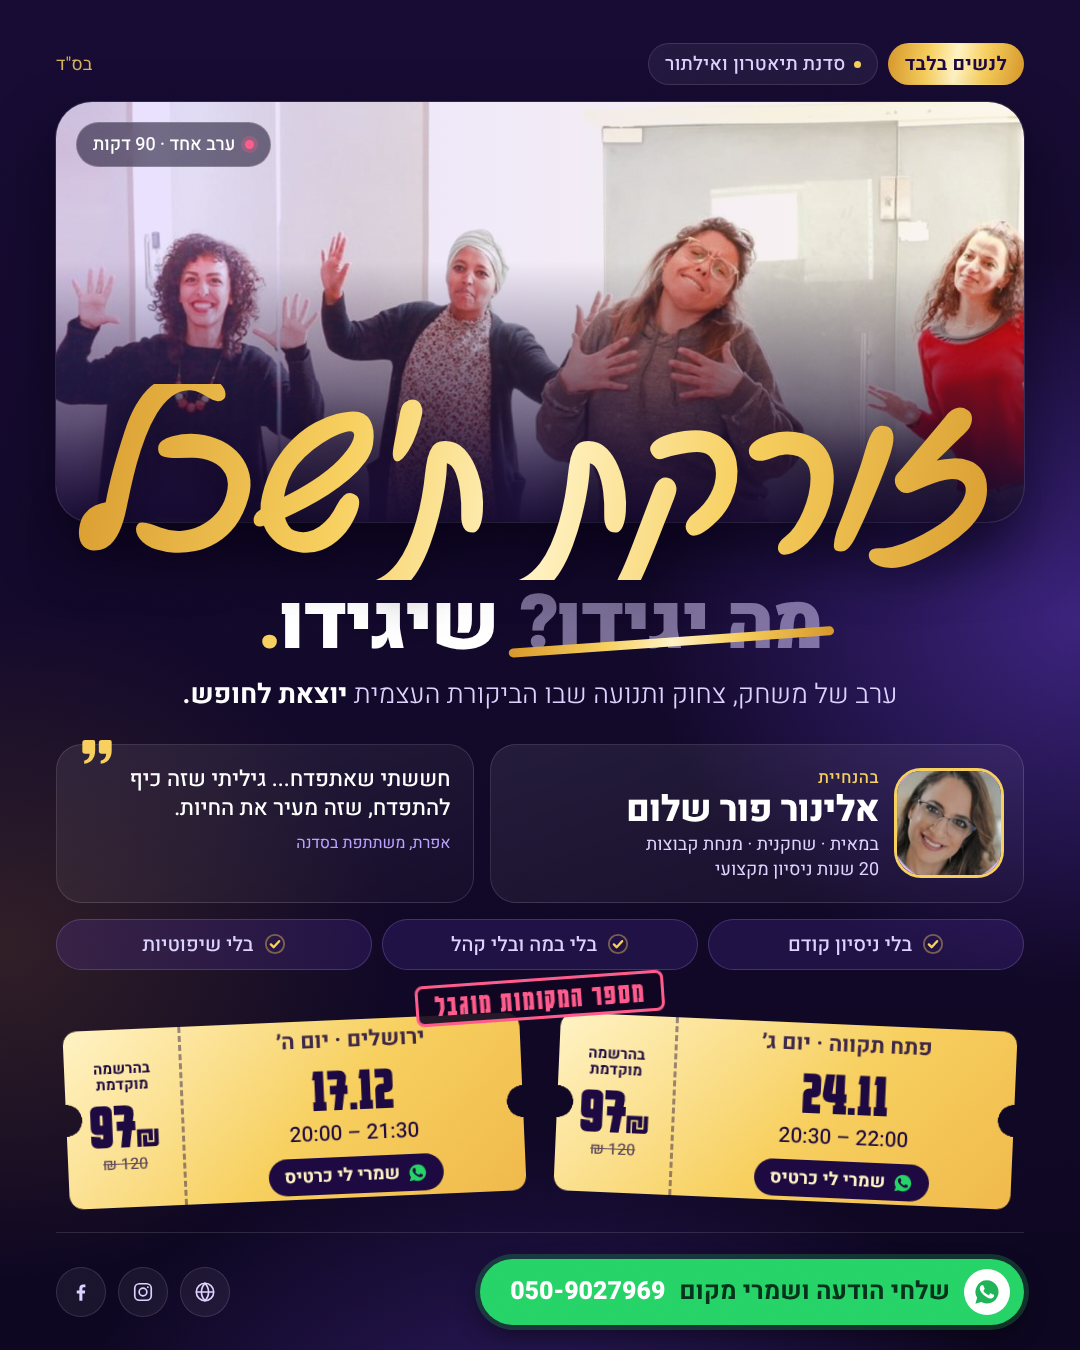
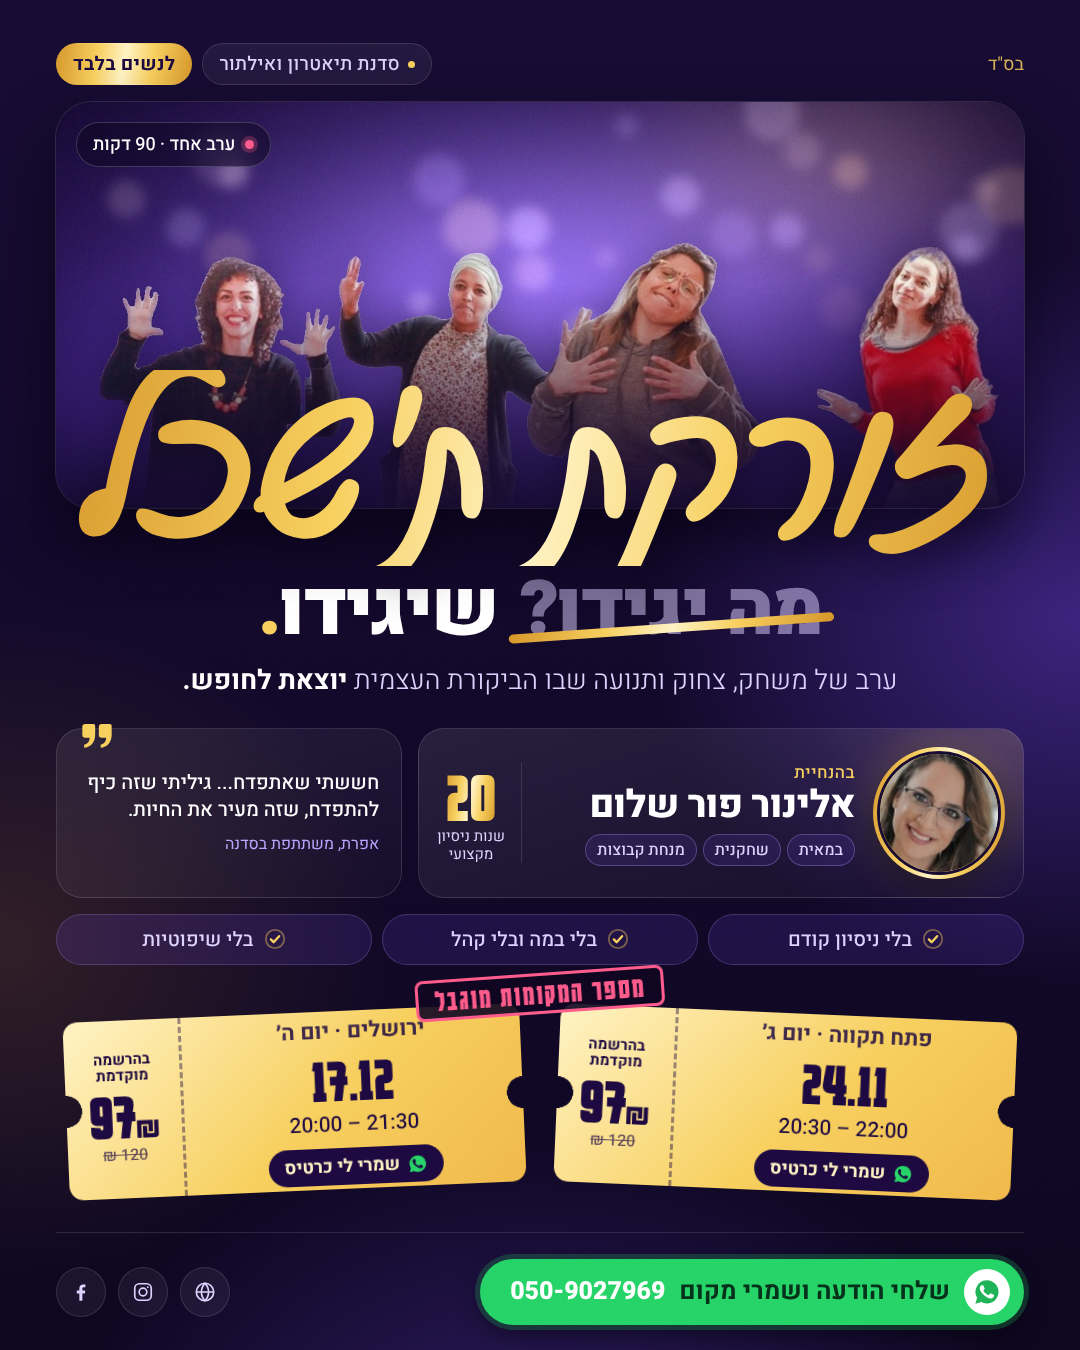
Restage photo on a brand backdrop, return בס"ד to top right, premium host card
Women composited onto a violet studio backdrop with bokeh (foreground
colour recovery, light wrap, colour match, soft shadow, shared grain).
Elinor gets a larger gold-ringed portrait, role chips and a 20-years stat.

Claude-Session: https://claude.ai/code/session_015vqGCRcRcJnpeyZ3SQhrR3

diff --git a/index.html b/index.html
@@ -74,15 +74,14 @@
   /* ---------- PHOTO ---------- */
   .photo {
     position: relative; margin-top: calc(18 * var(--u));
-    height: calc(420 * var(--u)); border-radius: calc(36 * var(--u)); overflow: hidden;
+    height: calc(406 * var(--u)); border-radius: calc(36 * var(--u)); overflow: hidden;
     box-shadow: 0 0 0 1px var(--line), 0 calc(30 * var(--u)) calc(60 * var(--u)) rgba(5, 1, 15, .6);
   }
-  .photo img { width: 100%; height: 100%; object-fit: cover; object-position: 58% 30%; display: block; filter: saturate(1.06) contrast(1.04); }
+  .photo img { width: 100%; height: 100%; object-fit: cover; object-position: 50% 50%; display: block; }
   .photo::after {
     content: ""; position: absolute; inset: 0;
     background:
-      linear-gradient(180deg, rgba(23, 11, 51, 0) 38%, rgba(23, 11, 51, .55) 72%, rgba(23, 11, 51, .96) 100%),
-      linear-gradient(90deg, rgba(124, 77, 255, .18), rgba(214, 149, 42, .08));
+      linear-gradient(180deg, rgba(23, 11, 51, 0) 45%, rgba(23, 11, 51, .5) 75%, rgba(23, 11, 51, .95) 100%);
     mix-blend-mode: normal;
   }
   .live {
@@ -119,18 +118,26 @@
   .sub b { font-weight: 700; color: var(--white); }
 
   /* ---------- BENTO ---------- */
-  .bento { margin-top: calc(30 * var(--u)); display: grid; grid-template-columns: 1.28fr 1fr; gap: calc(16 * var(--u)); }
+  .bento { margin-top: calc(28 * var(--u)); display: grid; grid-template-columns: 1.75fr 1fr; gap: calc(16 * var(--u)); }
   .card {
     position: relative; border-radius: calc(26 * var(--u)); padding: calc(20 * var(--u)) calc(22 * var(--u));
     background: linear-gradient(160deg, rgba(255, 255, 255, .08), rgba(255, 255, 255, .025));
     border: 1px solid var(--line);
   }
-  .host { display: flex; align-items: center; gap: calc(18 * var(--u)); }
-  .host img { width: calc(104 * var(--u)); height: calc(104 * var(--u)); border-radius: calc(24 * var(--u)); object-fit: cover; flex: none; box-shadow: 0 0 0 calc(3 * var(--u)) var(--gold-2); }
-  .host small { display: block; font-size: calc(17 * var(--u)); font-weight: 500; color: var(--gold-2); letter-spacing: calc(.5 * var(--u)); }
-  .host strong { display: block; font-size: calc(36 * var(--u)); font-weight: 800; line-height: 1.1; letter-spacing: calc(-.5 * var(--u)); }
-  .host span { display: block; margin-top: calc(4 * var(--u)); font-size: calc(18 * var(--u)); color: var(--lav); line-height: 1.35; }
-  .quote p { font-size: calc(22 * var(--u)); font-weight: 500; line-height: 1.32; }
+  .host { display: flex; align-items: center; gap: calc(18 * var(--u)); padding: calc(18 * var(--u)); overflow: hidden;
+    background: radial-gradient(calc(300 * var(--u)) calc(200 * var(--u)) at 100% 0%, rgba(247, 207, 93, .16), transparent 70%), linear-gradient(160deg, rgba(255, 255, 255, .09), rgba(255, 255, 255, .025)); }
+  .portrait { flex: none; width: calc(132 * var(--u)); height: calc(132 * var(--u)); border-radius: 50%; padding: calc(4 * var(--u)); background: var(--gold); box-shadow: 0 calc(12 * var(--u)) calc(30 * var(--u)) rgba(5, 1, 15, .55), 0 0 calc(40 * var(--u)) rgba(247, 207, 93, .25); }
+  .portrait img { width: 100%; height: 100%; border-radius: 50%; object-fit: cover; display: block; border: calc(3 * var(--u)) solid var(--bg-1); }
+  .who { flex: 1; min-width: 0; }
+  .who small { display: block; font-size: calc(17 * var(--u)); font-weight: 500; color: var(--gold-2); letter-spacing: calc(.5 * var(--u)); }
+  .who strong { display: block; font-size: calc(38 * var(--u)); font-weight: 800; line-height: 1.08; letter-spacing: calc(-.6 * var(--u)); white-space: nowrap; }
+  .roles { display: flex; flex-wrap: wrap; gap: calc(6 * var(--u)); margin-top: calc(8 * var(--u)); }
+  .roles em { font-style: normal; font-size: calc(16 * var(--u)); font-weight: 500; color: var(--lav); padding: calc(3 * var(--u)) calc(11 * var(--u)); border-radius: 99px; border: 1px solid rgba(185, 162, 255, .3); background: rgba(124, 77, 255, .12); }
+  .stat { flex: none; display: flex; flex-direction: column; align-items: center; padding-inline-start: calc(16 * var(--u)); border-inline-start: 1px solid var(--line); }
+  .stat b { font-family: var(--poster); font-weight: 700; font-size: calc(76 * var(--u)); line-height: .85; background: var(--gold); -webkit-background-clip: text; background-clip: text; color: transparent; }
+  .stat span { font-size: calc(15 * var(--u)); color: var(--lav); text-align: center; line-height: 1.2; }
+  .quote { display: flex; flex-direction: column; justify-content: center; }
+  .quote p { font-size: calc(20 * var(--u)); font-weight: 500; line-height: 1.34; }
   .quote span { display: block; margin-top: calc(8 * var(--u)); font-size: calc(16 * var(--u)); color: var(--violet-soft); }
   .quote svg { position: absolute; top: calc(-16 * var(--u)); left: calc(18 * var(--u)); width: calc(44 * var(--u)); height: calc(44 * var(--u)); fill: var(--gold-2); }
   .nots { grid-column: 1 / -1; display: flex; justify-content: space-between; gap: calc(10 * var(--u)); list-style: none; }
@@ -144,7 +151,7 @@
 
   /* ---------- TICKETS ---------- */
   .tickets-wrap { position: relative; }
-  .tickets { margin-top: calc(52 * var(--u)); display: grid; grid-template-columns: 1fr 1fr; gap: calc(34 * var(--u)); padding: 0 calc(10 * var(--u)); }
+  .tickets { margin-top: calc(48 * var(--u)); display: grid; grid-template-columns: 1fr 1fr; gap: calc(34 * var(--u)); padding: 0 calc(10 * var(--u)); }
   .ticket {
     --notch: calc(16 * var(--u));
     position: relative; display: flex; color: var(--ink);
@@ -218,11 +225,11 @@
   <article class="poster" aria-label="זורקת ת'שכל – סדנת תיאטרון ואילתור לנשים">
 
     <header class="top">
-      <div class="tags">
-        <span class="tag hot">לנשים בלבד</span>
-        <span class="tag"><i></i>סדנת תיאטרון ואילתור</span>
-      </div>
       <span class="bsd">בס"ד</span>
+      <div class="tags">
+        <span class="tag"><i></i>סדנת תיאטרון ואילתור</span>
+        <span class="tag hot">לנשים בלבד</span>
+      </div>
     </header>
 
     <div class="photo">
@@ -240,12 +247,13 @@
 
     <div class="bento">
       <div class="card host">
-        <img src="assets/elinor.jpg" alt="אלינור פור שלום">
-        <div>
+        <div class="portrait"><img src="assets/elinor.jpg" alt="אלינור פור שלום"></div>
+        <div class="who">
           <small>בהנחיית</small>
           <strong>אלינור פור שלום</strong>
-          <span>במאית · שחקנית · מנחת קבוצות<br>20 שנות ניסיון מקצועי</span>
+          <span class="roles"><em>במאית</em><em>שחקנית</em><em>מנחת קבוצות</em></span>
         </div>
+        <div class="stat"><b>20</b><span>שנות ניסיון<br>מקצועי</span></div>
       </div>
       <figure class="card quote">
         <svg viewBox="0 0 24 24" aria-hidden="true"><path d="M10 6H5.5A1.5 1.5 0 0 0 4 7.5V12a1.5 1.5 0 0 0 1.5 1.5H8c0 2-1 3.2-3 3.8V19c3.5-.5 6-3 6-7.2V7a1 1 0 0 0-1-1zm9 0h-4.5A1.5 1.5 0 0 0 13 7.5V12a1.5 1.5 0 0 0 1.5 1.5H17c0 2-1 3.2-3 3.8V19c3.5-.5 6-3 6-7.2V7a1 1 0 0 0-1-1z"/></svg>

diff --git a/tools/composite.py b/tools/composite.py
@@ -1,0 +1,84 @@
+# Composite the workshop photo onto the brand backdrop.
+# usage: python3 tools/composite.py <source.jpg> <rembg-birefnet-general-cutout.png> <out.jpg>
+import sys, numpy as np
+from PIL import Image, ImageFilter
+src_p, cut_p, out_p = sys.argv[1:4]
+I = np.asarray(Image.open(src_p).convert("RGB")).astype(np.float32) / 255
+A = np.asarray(Image.open(cut_p).convert("RGBA"))[..., 3].astype(np.float32) / 255
+H, W = A.shape
+A[:, :178] = 0
+A[400:, :215] = 0                                   # hanging bag / foreground arm
+y0, y1, x0, x1 = 330, 470, 480, 500              # glass-edge sliver by the first woman's arm
+reg = I[y0:y1, x0:x1].mean(2)
+A[y0:y1, x0:x1][reg > .45] = 0
+
+def blur(a, r):
+    im = Image.fromarray(np.clip(a * 255, 0, 255).astype(np.uint8))
+    return np.asarray(im.filter(ImageFilter.GaussianBlur(r))).astype(np.float32) / 255
+def blur3(a, r):
+    return np.dstack([blur(a[..., i], r) for i in range(3)])
+
+# clean plate: background colour estimated around the subject (normalised convolution)
+m = (A < .05).astype(np.float32)
+B = blur3(I * m[..., None], 18) / np.maximum(blur(m, 18), 1e-3)[..., None]
+# key out blown-out window light caught in the last woman's hair
+lum0 = I.mean(2); sat0 = I.max(2) - I.min(2)
+band = (blur(A, 10) < .985) & (A > 0)
+wk = np.clip((lum0 - .58) / .18, 0, 1) * np.clip((.16 - sat0) / .1, 0, 1)
+reg = np.zeros_like(A, bool); reg[:, 1330:] = True
+wk[:205] *= .55
+core = np.asarray(Image.fromarray((A * 255).astype(np.uint8)).filter(ImageFilter.MinFilter(21))).astype(np.float32) / 255
+A = np.where(band & reg, np.maximum(A * (1 - wk), core), A)
+A = np.where(reg, blur(A, 1.2), A)
+# tighten the matte a touch, then recover true foreground colour on the edges
+A = np.clip((A - .2) / .8, 0, 1)
+a = A[..., None]
+F = np.where(a > .02, np.clip((I - (1 - a) * B) / np.maximum(a, .25), 0, 1), I)
+F = np.where(a > .97, I, F)
+
+# ---- backdrop (canvas 1500×682; subject offset) ----
+CW, CH, ox, oy = 1500, 630, -110, 62
+yy, xx = np.mgrid[0:CH, 0:CW].astype(np.float32)
+def hexc(h): return np.array([int(h[i:i + 2], 16) for i in (1, 3, 5)], np.float32) / 255
+top, mid = hexc("#1e0b45"), hexc("#3b1a85")
+t = (yy / CH)[..., None]
+bg = top * (1 - t) + mid * t
+def glow(cx, cy, rx, ry, col, k):
+    d = ((xx - cx) / rx) ** 2 + ((yy - cy) / ry) ** 2
+    return (np.exp(-d * 2.2) * k)[..., None] * col
+bg = bg + glow(760, 290, 760, 400, hexc("#b9a2ff"), .55) + glow(1230, 90, 420, 260, hexc("#f7cf5d"), .22) + glow(170, 520, 380, 260, hexc("#7c4dff"), .35)
+# soft bokeh in the back
+rng = np.random.default_rng(4)
+bok = np.zeros((CH, CW, 3), np.float32)
+for _ in range(26):
+    cx, cy, r = rng.uniform(0, CW), rng.uniform(0, CH * .62), rng.uniform(14, 46)
+    col = hexc(rng.choice(["#fff3c4", "#f7cf5d", "#d9c8ff", "#ffffff"]))
+    disk = (((xx - cx) ** 2 + (yy - cy) ** 2) < r * r).astype(np.float32)
+    bok += disk[..., None] * col * rng.uniform(.08, .22)
+bg = bg + blur3(np.clip(bok, 0, 1), 9)
+vig = 1 - .35 * (((xx - CW / 2) / (CW * .62)) ** 2 + ((yy - CH * .45) / (CH * .9)) ** 2)
+bg = np.clip(bg * vig[..., None], 0, 1)
+
+# place subject on canvas
+Fc = np.zeros((CH, CW, 3), np.float32); Ac = np.zeros((CH, CW), np.float32)
+sx0, sy0 = max(0, -ox), 0
+cx0, cy0 = max(0, ox), oy
+w = min(W - sx0, CW - cx0); h = min(H, CH - cy0)
+Fc[cy0:cy0 + h, cx0:cx0 + w] = F[sy0:sy0 + h, sx0:sx0 + w]
+Ac[cy0:cy0 + h, cx0:cx0 + w] = A[sy0:sy0 + h, sx0:sx0 + w]
+
+# grade subject into the scene: gentle violet in the shadows + lilac key from the backdrop
+lum = Fc.mean(2, keepdims=True)
+Fc = Fc * .93 + hexc("#2a1260") * (1 - lum) * .07 + hexc("#d9c8ff") * lum * .04
+# light wrap: backdrop light bleeding over the subject's edges
+inner = blur(Ac, 7)
+wrap = np.clip((1 - inner) * Ac * 1.6, 0, 1)[..., None]
+Fc = Fc * (1 - .3 * wrap) + blur3(bg, 22) * .3 * wrap
+# soft ambient shadow behind them, so they sit in the space
+sh = blur(Ac, 28)[..., None]
+bg = bg * (1 - .28 * sh)
+
+ac = Ac[..., None]
+out = Fc * ac + bg * (1 - ac)
+out = out + rng.normal(0, .014, out.shape).astype(np.float32)     # shared grain
+Image.fromarray((np.clip(out, 0, 1) * 255).astype(np.uint8)).save(out_p, quality=92)

diff --git a/README.md b/README.md
@@ -22,14 +22,15 @@ const LINKS = {
 כל כרטיס תאריך פותח וואטסאפ עם הודעה מוכנה שכבר כוללת את העיר ואת התאריך, כך שלמתעניינת נשאר רק ללחוץ "שלח".
 
 ## הקונספט – עיצוב מודרני-עריכתי
-- **ויזואל:** רקע סגול-לילה עם הילות צבע רכות (סגול וזהב), גרעיניות עדינה של פילם וקווים דקים. התמונה המקורית, בלי חיתוך, ממוסגרת בפינות מעוגלות ומקבלת טיפול צבע סגלגל. הלוגו בזהב חוצה את קצה התמונה.
+- **ויזואל:** רקע סגול-לילה עם הילות צבע רכות (סגול וזהב), גרעיניות עדינה של פילם וקווים דקים. הנשים הועברו לרקע סטודיו סגול חדש עם בוקה זהב ולבנדר. הקומפוזיט כולל שחזור צבעי קצוות, "light wrap" (אור הרקע עוטף את הקצוות), התאמת צבע, צל רך וגרעיניות משותפת, כך שהן נראות מצולמות בתוכו ולא מודבקות. הסקריפט נמצא ב-`tools/composite.py`. הלוגו בזהב חוצה את קצה התמונה.
 - **פונטים:**
   - *Gveret Levin* ללוגו, קרוב ללוגו המקורי.
   - *Heebo* לכל הטקסט. מודרני, נקי ועבה בכותרות.
   - *Karantina* לתאריכים ולמחיר בכרטיסים.
 - **קופי + פסיכולוגיה:** "~~מה יגידו?~~ שיגידו." – הקול המבקר מופיע דהוי ונמחק בקו זהב, והתשובה מופיעה לבנה ובולטת.
 - **מבנה "בנטו" (כרטיסיות):**
-  - אלינור (סמכות) לצד ציטוט של משתתפת (הוכחה חברתית).
+  - כרטיס פרימיום לאלינור (סמכות): פורטרט בטבעת זהב, תגיות תפקיד ו-"20 שנות ניסיון" בולט. לצידו ציטוט של משתתפת (הוכחה חברתית).
+  - להחלפת הפורטרט: מחליפים את `assets/elinor.jpg` בתמונה ריבועית.
   - מתחתיהן שלוש תגיות שמפרקות התנגדויות.
 - **הרשמה:**
   - כרטיסי התיאטרון עם ספח המחיר (~~120~~ → 97 ₪) וחותמת "מספר המקומות מוגבל".
